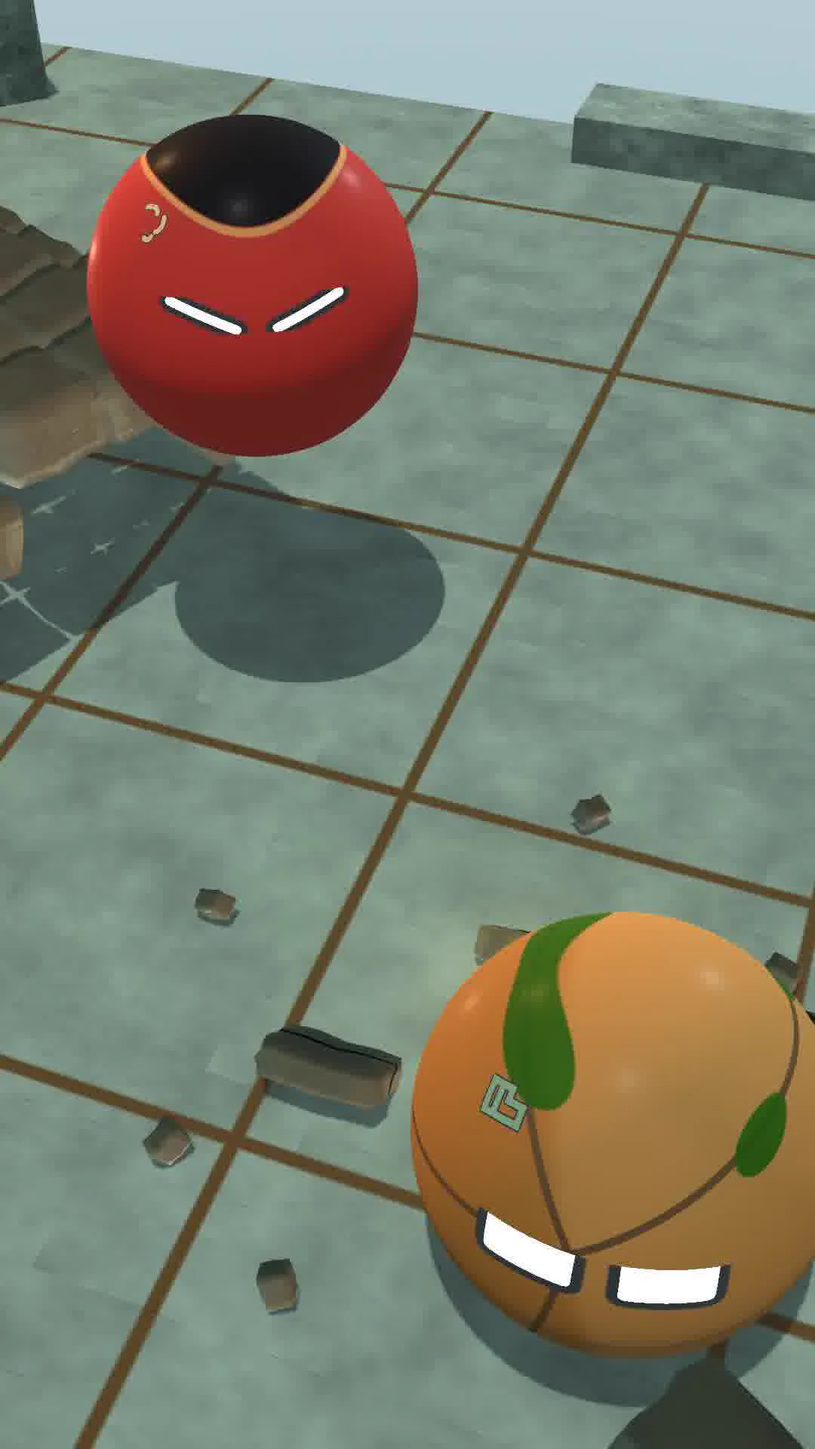
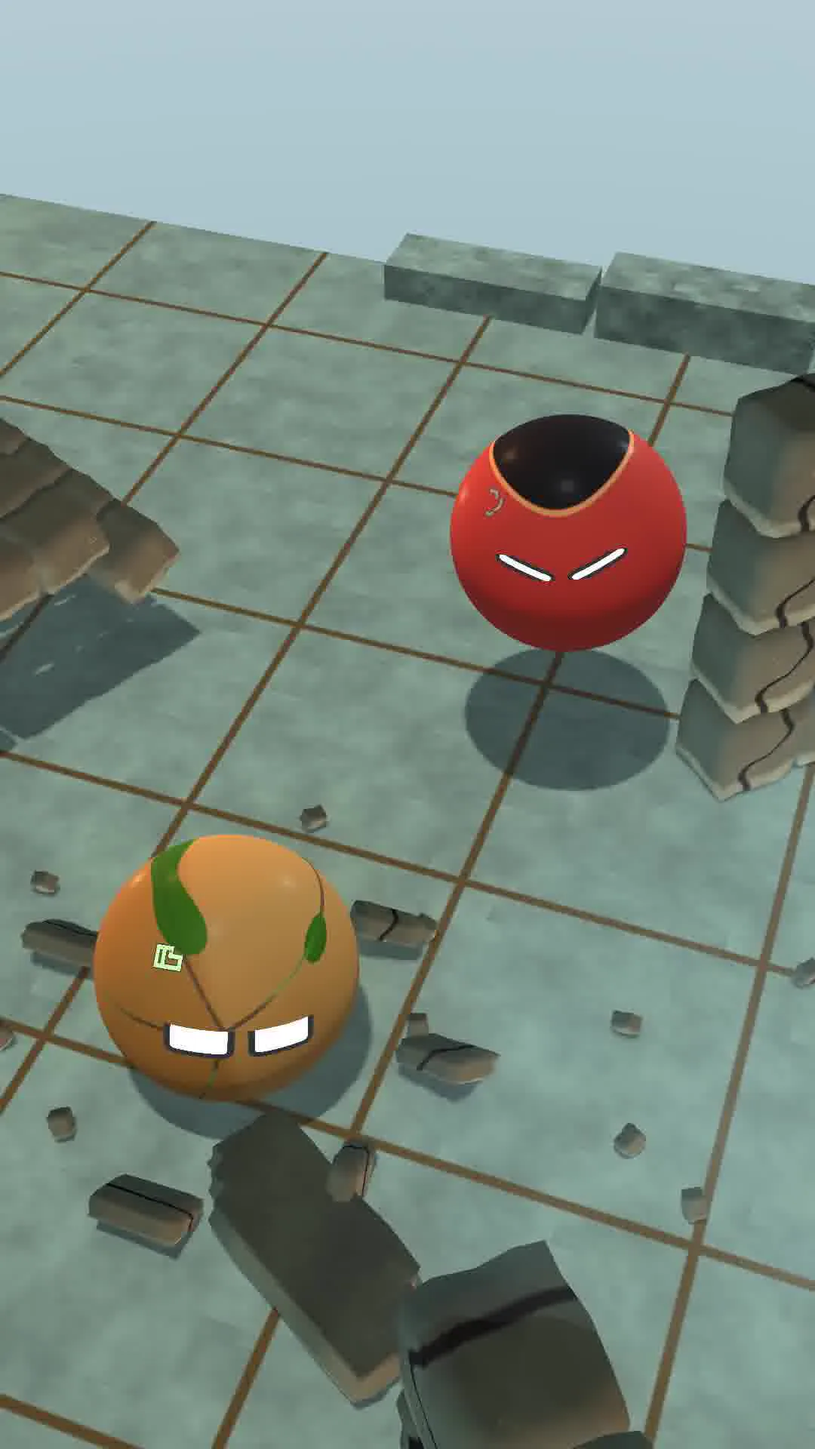
Update reference stills with wide landing view

diff --git a/index.html b/index.html
@@ -1,1 +1,1 @@
-<!doctype html><html lang="en"><head><meta charset="utf-8"><meta name="viewport" content="width=device-width,initial-scale=1"><meta name="description" content="Orb Fighters: building a living sandbox, one readable clash at a time."><meta name="color-scheme" content="light"><title>Development journal &middot; Orb Fighters</title><link rel="stylesheet" href="assets/style.css"></head><body><a class="skip" href="#main">Skip to content</a><header><a class="brand" href="index.html"><span class="brand-mark" aria-hidden="true">OF</span><span>ORB FIGHTERS<small>DEVELOPMENT JOURNAL</small></span></a><nav aria-label="Main navigation"><a href="index.html" aria-current="page">Home</a><a href="milestones.html">Milestones</a><a href="gallery.html">Gallery</a><a href="design.html">Design</a></nav></header><main id="main"><section class="hero"><div><p class="eyebrow">A WORLD IN THE MAKING</p><h1>Small beings.<br><span>Limitless possibility.</span></h1><p class="intro">Follow Orb Fighters as a living sandbox takes shape: expressive orbs, physical powers, and fights that leave a mark.</p><a class="button" href="milestones.html">Follow the milestones <span aria-hidden="true">&rarr;</span></a></div><div class="hero-media"><a class="hero-image-link" href="posts/2026-10-02-the-orbs-side-by-side.html" aria-label="Read the orb shell development update"><figure class="wip-still"><img src="assets/media/2026-10-02-the-orbs-side-by-side-still-2.webp?v=smooth-stone" alt="MAGNUS painting beside a smooth dark slate orb with a blue meridian and small minus and plus eyes" loading="eager" decoding="async"><figcaption><span class="wip-label">Work in progress</span> MAGNUS WIP: the dark slate shell and blue meridian remain distinct. The render is cleaner and cloudier than the painting, with a fairly uniform bright eye core.</figcaption></figure></a></div></section><section class="updates"><div class="section-title"><h2>Latest from the workshop</h2><span>NEWEST FIRST</span></div><div class="post-grid"><article class="post-card"><figure class="wip-still"><a href="assets/media/2026-10-02-twenty-seconds-in-the-duel-still-2.webp"><img src="assets/media/2026-10-02-twenty-seconds-in-the-duel-still-2.webp" alt="TERRA stands on a raised stone build as BLAZE plasma lights the nearby arena" width="960" height="540" loading="lazy" decoding="async"></a><figcaption><span class="wip-label">Work in progress</span> 2.40 s - A real stone build and BLAZE plasma are visible in the same gameplay view. This recorded-input run is not human GUI play or reference animation.</figcaption></figure><div class="post-meta"><time datetime="2026-10-02T17:05+09:00">02 Oct 2026, 17:05 KST</time><span class="badge">Work in progress</span></div><h2><a href="posts/2026-10-02-twenty-seconds-in-the-duel.html">Ordinary controls in the duel</a></h2><p>A twenty-second gameplay capture runs recorded mouse and key inputs through TERRA&#39;s ordinary controls against autonomous BLAZE. The inputs are replayed, rather than entered live by a person; this is separate from the choreographed reference fight. These are the current gameplay orbs, with the new shell study still unapplied.</p><a class="read-more" href="posts/2026-10-02-twenty-seconds-in-the-duel.html">Read the update &rarr;</a></article><article class="post-card"><figure class="wip-still"><a href="assets/media/2026-10-02-a-fight-you-can-follow-still-2.webp"><img src="assets/media/2026-10-02-a-fight-you-can-follow-still-2.webp" alt="Round BLAZE descends toward an unobstructed tiled floor with TERRA visible nearby" width="1080" height="1920" loading="lazy" decoding="async"></a><figcaption><span class="wip-label">Work in progress</span> 8.867 s - BLAZE stays round during descent, with the landing floor and TERRA visible.</figcaption></figure><div class="post-meta"><time datetime="2026-10-02T16:28+09:00">02 Oct 2026, 16:28 KST</time><span class="badge">Work in progress</span></div><h2><a href="posts/2026-10-02-a-fight-you-can-follow.html">Letting the landing read</a></h2><p>The reference fight now shows BLAZE&#39;s landing without foreground stone covering the contact. BLAZE remains round as it descends, then compresses after touching the floor. That makes the fall&#39;s weight easier to read.</p><a class="read-more" href="posts/2026-10-02-a-fight-you-can-follow.html">Read the update &rarr;</a></article><article class="post-card"><figure class="wip-still"><a href="assets/media/2026-10-02-the-orbs-side-by-side-still-1.webp?v=smooth-stone"><img src="assets/media/2026-10-02-the-orbs-side-by-side-still-1.webp?v=smooth-stone" alt="Eight selected shell paintings beside smooth stone and ceramic orb renders in a dark studio" loading="lazy" decoding="async"></a><figcaption><span class="wip-label">Work in progress</span> Updated WIP: smoother stone and ceramic shells, wider lit inlays and a darker studio. Original small glyphs and distinct colours remain; wear and eye-light depth still need work.</figcaption></figure><div class="post-meta"><time datetime="2026-10-02T16:05:00+09:00">02 Oct 2026, 16:05 KST</time><span class="badge">Work in progress</span></div><h2><a href="posts/2026-10-02-the-orbs-side-by-side.html">Original small glyphs, eight shell directions</a></h2><p>Eight orb shells now read more like smooth stone and ceramic. Wider lit inlays stand out in a darker studio, while the small original eye glyphs and distinct colours remain.</p><a class="read-more" href="posts/2026-10-02-the-orbs-side-by-side.html">Read the update &rarr;</a></article><article class="post-card"><figure class="wip-still"><img src="assets/media/2026-10-01-a-cleaner-reference-fight-still-1.webp" alt="BLAZE drives an orange blade toward TERRA amid sparks in the earlier reference pass" width="1080" height="1920" loading="lazy" decoding="async"><figcaption><span class="wip-label">Work in progress</span> Before: the contact is readable, but bright sparks and steam crowd its focal point. This is authored reference-animation WIP.</figcaption></figure><div class="post-meta"><time datetime="2026-10-01T11:07:00+09:00">01 Oct 2026, 11:07 KST</time><span class="badge">M1</span><span class="badge">In progress</span></div><h2><a href="posts/2026-10-01-a-cleaner-reference-fight.html">A cleaner reference fight</a></h2><p>We have withdrawn the short video from this reference-fight update because the action is too confusing. Frequent angle changes, crowded fighters and weak plasma shapes make the exchange hard to follow. These work-in-progress stills remain for comparison while we rebuild the sequence.</p><a class="read-more" href="posts/2026-10-01-a-cleaner-reference-fight.html">Read the update <span aria-hidden="true">&rarr;</span></a></article><article class="post-card"><figure class="wip-still"><img src="assets/media/2026-10-01-moves-tested-as-a-complete-chain-still-1.webp" alt="Warm earth-colored TERRA faces vivid red BLAZE at a staged contact" width="1080" height="1920" loading="lazy" decoding="async"><figcaption><span class="wip-label">Work in progress</span> Latest selected orb material WIP. Red body shading is clearer, but the blade remains hidden; the next reference render changes the contact staging.</figcaption></figure><div class="post-meta"><time datetime="2026-10-01T09:44:00+09:00">01 Oct 2026, 09:44 KST</time><span class="badge">M1</span><span class="badge">In progress</span></div><h2><a href="posts/2026-10-01-moves-tested-as-a-complete-chain.html">Testing moves as a complete chain</a></h2><p>A technique can now reach the native duel core as a complete ordered chain of moves. The core quotes the whole chain before accepting it, so a later step cannot quietly overspend Glow or reuse matter that an earlier step has already reserved. An invalid step leaves the world unchanged.</p><a class="read-more" href="posts/2026-10-01-moves-tested-as-a-complete-chain.html">Read the update <span aria-hidden="true">&rarr;</span></a></article><article class="post-card"><figure class="wip-still"><img src="assets/media/2026-10-01-kept-builds-survive-a-fresh-world-still-1.webp" alt="A surviving stone pillar stands after a scripted Keep action" width="1080" height="1920" loading="lazy" decoding="async"><figcaption><span class="wip-label">Work in progress</span> Later native capture of the paid kept build. Its surviving state is tested, but the pale box material is unfinished; detailed stone shading is next.</figcaption></figure><div class="post-meta"><time datetime="2026-10-01T09:01:00+09:00">01 Oct 2026, 09:01 KST</time><span class="badge">M1</span><span class="badge">In progress</span></div><h2><a href="posts/2026-10-01-kept-builds-survive-a-fresh-world.html">Kept builds survive a fresh world</a></h2><p>The latest scripted control test now keeps a real, surviving stone build. The player targets it, pays once, and a repeated Keep action spends nothing extra. Clean leaves that paid kept build intact without issuing a refund.</p><a class="read-more" href="posts/2026-10-01-kept-builds-survive-a-fresh-world.html">Read the update <span aria-hidden="true">&rarr;</span></a></article><article class="post-card"><figure class="wip-still"><img src="assets/media/2026-10-01-controls-reach-the-duel-still-1.webp" alt="TERRA shapes stone beside BLAZE during a native input test" width="1080" height="1920" loading="lazy" decoding="async"><figcaption><span class="wip-label">Work in progress</span> Later recorded follow-up to the scripted contacts. The native input path works, but the pale pillar reads poorly; surface materials are next.</figcaption></figure><div class="post-meta"><time datetime="2026-10-01T08:31:00+09:00">01 Oct 2026, 08:31 KST</time><span class="badge">M1</span><span class="badge">In progress</span></div><h2><a href="posts/2026-10-01-controls-reach-the-duel.html">The controls reach the duel</a></h2><p>The latest scripted control test produced three physical contacts and a broken guard between TERRA and BLAZE. Every authored movement and power-shape upload in that run was accepted. The controls and shared motion now connect to the native duel&#39;s consequences.</p><a class="read-more" href="posts/2026-10-01-controls-reach-the-duel.html">Read the update <span aria-hidden="true">&rarr;</span></a></article><article class="post-card"><figure class="wip-still"><img src="assets/media/2026-10-01-giving-moves-real-consequences-still-1.webp" alt="TERRA and BLAZE stand beside a newly formed stone pillar" width="1080" height="1920" loading="lazy" decoding="async"><figcaption><span class="wip-label">Work in progress</span> Later native control capture, not the backend fixture described above. Geometry and costs are native, but stone shading and the small viewport need work.</figcaption></figure><div class="post-meta"><time datetime="2026-10-01T07:39:00+09:00">01 Oct 2026, 07:39 KST</time><span class="badge">M1</span><span class="badge">In progress</span></div><h2><a href="posts/2026-10-01-giving-moves-real-consequences.html">Giving moves real consequences</a></h2><p>The new duel backend now runs inside Godot. It accepts authored movement and power shapes, checks the available Glow and existing matter, and resolves physical contacts. Animation supplies the movement; the core accounts for its consequences.</p><a class="read-more" href="posts/2026-10-01-giving-moves-real-consequences.html">Read the update <span aria-hidden="true">&rarr;</span></a></article><article class="post-card"><figure class="wip-still"><img src="assets/media/2026-10-01-the-journal-is-live-still-1.webp" alt="The development journal home page with dated progress posts" width="1280" height="2258" loading="lazy" decoding="async"><figcaption><span class="wip-label">Work in progress</span> Later journal screenshot. This earlier layout still had no post media; images and short WIP clips are being added now.</figcaption></figure><div class="post-meta"><time datetime="2026-10-01T06:55:00+09:00">01 Oct 2026, 06:55 KST</time><span class="badge">M1</span><span class="badge">In progress</span></div><h2><a href="posts/2026-10-01-the-journal-is-live.html">The development journal is live</a></h2><p>This journal is now online. It brings together the latest development posts, milestone status and a readable summary of the design, so the progress of Orb Fighters is easier to follow on a phone.</p><a class="read-more" href="posts/2026-10-01-the-journal-is-live.html">Read the update <span aria-hidden="true">&rarr;</span></a></article><article class="post-card"><figure class="wip-still"><img src="assets/media/2026-10-01-making-fields-visible-still-1.webp" alt="MAGNUS prepares magnetic power above scattered metal filings" width="720" height="1280" loading="lazy" decoding="async"><figcaption><span class="wip-label">Work in progress</span> Cosmetic component WIP: tangible filings show the field, but they disappear at phone size. Larger, clearer alignment changes are next.</figcaption></figure><div class="post-meta"><time datetime="2026-10-01T05:24:00+09:00">01 Oct 2026, 05:24 KST</time><span class="badge">M1</span><span class="badge">In progress</span></div><h2><a href="posts/2026-10-01-making-fields-visible.html">Making fields visible through matter</a></h2><p>The latest MAGNUS study shows magnetic power through metal filings and moving alloy fragments. The field becomes visible through what it moves, giving this fighter a different shape language from stone, plasma and electrical discharge.</p><a class="read-more" href="posts/2026-10-01-making-fields-visible.html">Read the update <span aria-hidden="true">&rarr;</span></a></article><article class="post-card"><figure class="wip-still"><img src="assets/media/2026-10-01-framing-the-moment-of-contact-still-1.webp" alt="TERRA faces the camera under a dense stone-dust effect" width="1080" height="1920" loading="lazy" decoding="async"><figcaption><span class="wip-label">Work in progress</span> Camera-revision WIP: the fighter is large, but dense dust and speed lines compete with its eyes. Cleaner contact shapes are next.</figcaption></figure><div class="post-meta"><time datetime="2026-10-01T04:45:00+09:00">01 Oct 2026, 04:45 KST</time><span class="badge">M1</span><span class="badge">In progress</span></div><h2><a href="posts/2026-10-01-framing-the-moment-of-contact.html">Framing the moment of contact</a></h2><p>The latest reference-fight camera brings more of the action into view. In the recorded revision, 466 of 600 frames meet the current fighter-size and framing target, up from 332. The target is 480, and all three major impacts now keep the fighter shells inside their safety margin.</p><a class="read-more" href="posts/2026-10-01-framing-the-moment-of-contact.html">Read the update <span aria-hidden="true">&rarr;</span></a></article><article class="post-card"><figure class="wip-still"><img src="assets/media/2026-10-01-making-the-workshop-readable-still-1.webp" alt="TERRA is shown in a dedicated dummy view above technique fields" width="1080" height="1920" loading="lazy" decoding="async"><figcaption><span class="wip-label">Work in progress</span> Later control-only follow-up: the dummy has its own view. Combat is unavailable; more space for the fight is still needed.</figcaption></figure><div class="post-meta"><time datetime="2026-10-01T04:03:00+09:00">01 Oct 2026, 04:03 KST</time><span class="badge">M4</span><span class="badge">Groundwork</span></div><h2><a href="posts/2026-10-01-making-the-workshop-readable.html">Making the workshop readable</a></h2><p>The technique workshop now gives its live dummy a separate view. Larger text and scrolling controls let you adjust a recipe without covering the orb&#39;s eyes. The control guide has its own space, so instructions stay clear of the demonstration.</p><a class="read-more" href="posts/2026-10-01-making-the-workshop-readable.html">Read the update <span aria-hidden="true">&rarr;</span></a></article><article class="post-card"><figure class="wip-still"><img src="assets/media/2026-10-01-testing-controls-before-the-duel-still-1.webp" alt="TERRA faces BLAZE while a gesture charge is shown" width="1080" height="1920" loading="lazy" decoding="async"><figcaption><span class="wip-label">Work in progress</span> Input prototype only: combat is unavailable in this version. The faint guide and cramped opening view need correction.</figcaption></figure><div class="post-meta"><time datetime="2026-10-01T03:15:00+09:00">01 Oct 2026, 03:15 KST</time><span class="badge">M4</span><span class="badge">Groundwork</span></div><h2><a href="posts/2026-10-01-testing-controls-before-the-duel.html">Testing the controls before the duel</a></h2><p>The first control prototype now runs inside Godot. A recorded input session exercises direction and charge, releasing a technique, quick reactions, lock-on, Clean and Keep requests, and the technique workshop. Thirteen checks passed for input handling and saved recipes.</p><a class="read-more" href="posts/2026-10-01-testing-controls-before-the-duel.html">Read the update <span aria-hidden="true">&rarr;</span></a></article><article class="post-card"><figure class="wip-still"><img src="assets/media/2026-10-01-craft-and-first-playable-still-1.webp" alt="TERRA braces below a cloud of stone dust" width="1080" height="1920" loading="lazy" decoding="async"><figcaption><span class="wip-label">Work in progress</span> Later reference-animation WIP: dust and stone crowd the contact image. Clearer effect staging and quieter scenery are next.</figcaption></figure><div class="post-meta"><time datetime="2026-10-01T02:44:00+09:00">01 Oct 2026, 02:44 KST</time><span class="badge">M1</span><span class="badge">In progress</span></div><h2><a href="posts/2026-10-01-craft-and-first-playable.html">A clearer fight, a brighter world</a></h2><p>Orb Fighters is building toward fluid, creative power fights in a world that remembers what happened. The first reference spar pairs BLAZE&#39;s plasma with TERRA&#39;s stone shaping. That short fight sets the quality target before the systems grow around it.</p><a class="read-more" href="posts/2026-10-01-craft-and-first-playable.html">Read the update <span aria-hidden="true">&rarr;</span></a></article></div></section></main><footer><strong>Orb Fighters</strong><span>Original worlds. Shared rules. Unexpected fights.</span><a href="design.html">Explore the design</a></footer></body></html>
+<!doctype html><html lang="en"><head><meta charset="utf-8"><meta name="viewport" content="width=device-width,initial-scale=1"><meta name="description" content="Orb Fighters: building a living sandbox, one readable clash at a time."><meta name="color-scheme" content="light"><title>Development journal &middot; Orb Fighters</title><link rel="stylesheet" href="assets/style.css"></head><body><a class="skip" href="#main">Skip to content</a><header><a class="brand" href="index.html"><span class="brand-mark" aria-hidden="true">OF</span><span>ORB FIGHTERS<small>DEVELOPMENT JOURNAL</small></span></a><nav aria-label="Main navigation"><a href="index.html" aria-current="page">Home</a><a href="milestones.html">Milestones</a><a href="gallery.html">Gallery</a><a href="design.html">Design</a></nav></header><main id="main"><section class="hero"><div><p class="eyebrow">A WORLD IN THE MAKING</p><h1>Small beings.<br><span>Limitless possibility.</span></h1><p class="intro">Follow Orb Fighters as a living sandbox takes shape: expressive orbs, physical powers, and fights that leave a mark.</p><a class="button" href="milestones.html">Follow the milestones <span aria-hidden="true">&rarr;</span></a></div><div class="hero-media"><a class="hero-image-link" href="posts/2026-10-02-the-orbs-side-by-side.html" aria-label="Read the orb shell development update"><figure class="wip-still"><img src="assets/media/2026-10-02-the-orbs-side-by-side-still-2.webp?v=smooth-stone" alt="MAGNUS painting beside a smooth dark slate orb with a blue meridian and small minus and plus eyes" loading="eager" decoding="async"><figcaption><span class="wip-label">Work in progress</span> MAGNUS WIP: the dark slate shell and blue meridian remain distinct. The render is cleaner and cloudier than the painting, with a fairly uniform bright eye core.</figcaption></figure></a></div></section><section class="updates"><div class="section-title"><h2>Latest from the workshop</h2><span>NEWEST FIRST</span></div><div class="post-grid"><article class="post-card"><figure class="wip-still"><a href="assets/media/2026-10-02-twenty-seconds-in-the-duel-still-2.webp"><img src="assets/media/2026-10-02-twenty-seconds-in-the-duel-still-2.webp" alt="TERRA stands on a raised stone build as BLAZE plasma lights the nearby arena" width="960" height="540" loading="lazy" decoding="async"></a><figcaption><span class="wip-label">Work in progress</span> 2.40 s - A real stone build and BLAZE plasma are visible in the same gameplay view. This recorded-input run is not human GUI play or reference animation.</figcaption></figure><div class="post-meta"><time datetime="2026-10-02T17:05+09:00">02 Oct 2026, 17:05 KST</time><span class="badge">Work in progress</span></div><h2><a href="posts/2026-10-02-twenty-seconds-in-the-duel.html">Ordinary controls in the duel</a></h2><p>A twenty-second gameplay capture runs recorded mouse and key inputs through TERRA&#39;s ordinary controls against autonomous BLAZE. The inputs are replayed, rather than entered live by a person; this is separate from the choreographed reference fight. These are the current gameplay orbs, with the new shell study still unapplied.</p><a class="read-more" href="posts/2026-10-02-twenty-seconds-in-the-duel.html">Read the update &rarr;</a></article><article class="post-card"><figure class="wip-still"><a href="assets/media/2026-10-02-a-fight-you-can-follow-still-2.webp?v=wide-pair"><img src="assets/media/2026-10-02-a-fight-you-can-follow-still-2.webp?v=wide-pair" alt="A wider fixed landing view shows both whole BLAZE and TERRA shells with the pillar beside them" width="1080" height="1920" loading="lazy" decoding="async"></a><figcaption><span class="wip-label">Work in progress</span> Approximately 8.23 s - The wider landing pair is established, with both whole shells visible and the pillar clear of them. An earlier camera transition still clips the frame edge.</figcaption></figure><div class="post-meta"><time datetime="2026-10-02T16:28+09:00">02 Oct 2026, 16:28 KST</time><span class="badge">Work in progress</span></div><h2><a href="posts/2026-10-02-a-fight-you-can-follow.html">Letting the landing read</a></h2><p>The reference fight now holds a wider, fixed view of BLAZE and TERRA through the landing. Both whole shells remain visible during the reviewed 8.25-9.25 second interval, and the pillar no longer covers them. The contact has room to read.</p><a class="read-more" href="posts/2026-10-02-a-fight-you-can-follow.html">Read the update &rarr;</a></article><article class="post-card"><figure class="wip-still"><a href="assets/media/2026-10-02-the-orbs-side-by-side-still-1.webp?v=smooth-stone"><img src="assets/media/2026-10-02-the-orbs-side-by-side-still-1.webp?v=smooth-stone" alt="Eight selected shell paintings beside smooth stone and ceramic orb renders in a dark studio" loading="lazy" decoding="async"></a><figcaption><span class="wip-label">Work in progress</span> Updated WIP: smoother stone and ceramic shells, wider lit inlays and a darker studio. Original small glyphs and distinct colours remain; wear and eye-light depth still need work.</figcaption></figure><div class="post-meta"><time datetime="2026-10-02T16:05:00+09:00">02 Oct 2026, 16:05 KST</time><span class="badge">Work in progress</span></div><h2><a href="posts/2026-10-02-the-orbs-side-by-side.html">Original small glyphs, eight shell directions</a></h2><p>Eight orb shells now read more like smooth stone and ceramic. Wider lit inlays stand out in a darker studio, while the small original eye glyphs and distinct colours remain.</p><a class="read-more" href="posts/2026-10-02-the-orbs-side-by-side.html">Read the update &rarr;</a></article><article class="post-card"><figure class="wip-still"><img src="assets/media/2026-10-01-a-cleaner-reference-fight-still-1.webp" alt="BLAZE drives an orange blade toward TERRA amid sparks in the earlier reference pass" width="1080" height="1920" loading="lazy" decoding="async"><figcaption><span class="wip-label">Work in progress</span> Before: the contact is readable, but bright sparks and steam crowd its focal point. This is authored reference-animation WIP.</figcaption></figure><div class="post-meta"><time datetime="2026-10-01T11:07:00+09:00">01 Oct 2026, 11:07 KST</time><span class="badge">M1</span><span class="badge">In progress</span></div><h2><a href="posts/2026-10-01-a-cleaner-reference-fight.html">A cleaner reference fight</a></h2><p>We have withdrawn the short video from this reference-fight update because the action is too confusing. Frequent angle changes, crowded fighters and weak plasma shapes make the exchange hard to follow. These work-in-progress stills remain for comparison while we rebuild the sequence.</p><a class="read-more" href="posts/2026-10-01-a-cleaner-reference-fight.html">Read the update <span aria-hidden="true">&rarr;</span></a></article><article class="post-card"><figure class="wip-still"><img src="assets/media/2026-10-01-moves-tested-as-a-complete-chain-still-1.webp" alt="Warm earth-colored TERRA faces vivid red BLAZE at a staged contact" width="1080" height="1920" loading="lazy" decoding="async"><figcaption><span class="wip-label">Work in progress</span> Latest selected orb material WIP. Red body shading is clearer, but the blade remains hidden; the next reference render changes the contact staging.</figcaption></figure><div class="post-meta"><time datetime="2026-10-01T09:44:00+09:00">01 Oct 2026, 09:44 KST</time><span class="badge">M1</span><span class="badge">In progress</span></div><h2><a href="posts/2026-10-01-moves-tested-as-a-complete-chain.html">Testing moves as a complete chain</a></h2><p>A technique can now reach the native duel core as a complete ordered chain of moves. The core quotes the whole chain before accepting it, so a later step cannot quietly overspend Glow or reuse matter that an earlier step has already reserved. An invalid step leaves the world unchanged.</p><a class="read-more" href="posts/2026-10-01-moves-tested-as-a-complete-chain.html">Read the update <span aria-hidden="true">&rarr;</span></a></article><article class="post-card"><figure class="wip-still"><img src="assets/media/2026-10-01-kept-builds-survive-a-fresh-world-still-1.webp" alt="A surviving stone pillar stands after a scripted Keep action" width="1080" height="1920" loading="lazy" decoding="async"><figcaption><span class="wip-label">Work in progress</span> Later native capture of the paid kept build. Its surviving state is tested, but the pale box material is unfinished; detailed stone shading is next.</figcaption></figure><div class="post-meta"><time datetime="2026-10-01T09:01:00+09:00">01 Oct 2026, 09:01 KST</time><span class="badge">M1</span><span class="badge">In progress</span></div><h2><a href="posts/2026-10-01-kept-builds-survive-a-fresh-world.html">Kept builds survive a fresh world</a></h2><p>The latest scripted control test now keeps a real, surviving stone build. The player targets it, pays once, and a repeated Keep action spends nothing extra. Clean leaves that paid kept build intact without issuing a refund.</p><a class="read-more" href="posts/2026-10-01-kept-builds-survive-a-fresh-world.html">Read the update <span aria-hidden="true">&rarr;</span></a></article><article class="post-card"><figure class="wip-still"><img src="assets/media/2026-10-01-controls-reach-the-duel-still-1.webp" alt="TERRA shapes stone beside BLAZE during a native input test" width="1080" height="1920" loading="lazy" decoding="async"><figcaption><span class="wip-label">Work in progress</span> Later recorded follow-up to the scripted contacts. The native input path works, but the pale pillar reads poorly; surface materials are next.</figcaption></figure><div class="post-meta"><time datetime="2026-10-01T08:31:00+09:00">01 Oct 2026, 08:31 KST</time><span class="badge">M1</span><span class="badge">In progress</span></div><h2><a href="posts/2026-10-01-controls-reach-the-duel.html">The controls reach the duel</a></h2><p>The latest scripted control test produced three physical contacts and a broken guard between TERRA and BLAZE. Every authored movement and power-shape upload in that run was accepted. The controls and shared motion now connect to the native duel&#39;s consequences.</p><a class="read-more" href="posts/2026-10-01-controls-reach-the-duel.html">Read the update <span aria-hidden="true">&rarr;</span></a></article><article class="post-card"><figure class="wip-still"><img src="assets/media/2026-10-01-giving-moves-real-consequences-still-1.webp" alt="TERRA and BLAZE stand beside a newly formed stone pillar" width="1080" height="1920" loading="lazy" decoding="async"><figcaption><span class="wip-label">Work in progress</span> Later native control capture, not the backend fixture described above. Geometry and costs are native, but stone shading and the small viewport need work.</figcaption></figure><div class="post-meta"><time datetime="2026-10-01T07:39:00+09:00">01 Oct 2026, 07:39 KST</time><span class="badge">M1</span><span class="badge">In progress</span></div><h2><a href="posts/2026-10-01-giving-moves-real-consequences.html">Giving moves real consequences</a></h2><p>The new duel backend now runs inside Godot. It accepts authored movement and power shapes, checks the available Glow and existing matter, and resolves physical contacts. Animation supplies the movement; the core accounts for its consequences.</p><a class="read-more" href="posts/2026-10-01-giving-moves-real-consequences.html">Read the update <span aria-hidden="true">&rarr;</span></a></article><article class="post-card"><figure class="wip-still"><img src="assets/media/2026-10-01-the-journal-is-live-still-1.webp" alt="The development journal home page with dated progress posts" width="1280" height="2258" loading="lazy" decoding="async"><figcaption><span class="wip-label">Work in progress</span> Later journal screenshot. This earlier layout still had no post media; images and short WIP clips are being added now.</figcaption></figure><div class="post-meta"><time datetime="2026-10-01T06:55:00+09:00">01 Oct 2026, 06:55 KST</time><span class="badge">M1</span><span class="badge">In progress</span></div><h2><a href="posts/2026-10-01-the-journal-is-live.html">The development journal is live</a></h2><p>This journal is now online. It brings together the latest development posts, milestone status and a readable summary of the design, so the progress of Orb Fighters is easier to follow on a phone.</p><a class="read-more" href="posts/2026-10-01-the-journal-is-live.html">Read the update <span aria-hidden="true">&rarr;</span></a></article><article class="post-card"><figure class="wip-still"><img src="assets/media/2026-10-01-making-fields-visible-still-1.webp" alt="MAGNUS prepares magnetic power above scattered metal filings" width="720" height="1280" loading="lazy" decoding="async"><figcaption><span class="wip-label">Work in progress</span> Cosmetic component WIP: tangible filings show the field, but they disappear at phone size. Larger, clearer alignment changes are next.</figcaption></figure><div class="post-meta"><time datetime="2026-10-01T05:24:00+09:00">01 Oct 2026, 05:24 KST</time><span class="badge">M1</span><span class="badge">In progress</span></div><h2><a href="posts/2026-10-01-making-fields-visible.html">Making fields visible through matter</a></h2><p>The latest MAGNUS study shows magnetic power through metal filings and moving alloy fragments. The field becomes visible through what it moves, giving this fighter a different shape language from stone, plasma and electrical discharge.</p><a class="read-more" href="posts/2026-10-01-making-fields-visible.html">Read the update <span aria-hidden="true">&rarr;</span></a></article><article class="post-card"><figure class="wip-still"><img src="assets/media/2026-10-01-framing-the-moment-of-contact-still-1.webp" alt="TERRA faces the camera under a dense stone-dust effect" width="1080" height="1920" loading="lazy" decoding="async"><figcaption><span class="wip-label">Work in progress</span> Camera-revision WIP: the fighter is large, but dense dust and speed lines compete with its eyes. Cleaner contact shapes are next.</figcaption></figure><div class="post-meta"><time datetime="2026-10-01T04:45:00+09:00">01 Oct 2026, 04:45 KST</time><span class="badge">M1</span><span class="badge">In progress</span></div><h2><a href="posts/2026-10-01-framing-the-moment-of-contact.html">Framing the moment of contact</a></h2><p>The latest reference-fight camera brings more of the action into view. In the recorded revision, 466 of 600 frames meet the current fighter-size and framing target, up from 332. The target is 480, and all three major impacts now keep the fighter shells inside their safety margin.</p><a class="read-more" href="posts/2026-10-01-framing-the-moment-of-contact.html">Read the update <span aria-hidden="true">&rarr;</span></a></article><article class="post-card"><figure class="wip-still"><img src="assets/media/2026-10-01-making-the-workshop-readable-still-1.webp" alt="TERRA is shown in a dedicated dummy view above technique fields" width="1080" height="1920" loading="lazy" decoding="async"><figcaption><span class="wip-label">Work in progress</span> Later control-only follow-up: the dummy has its own view. Combat is unavailable; more space for the fight is still needed.</figcaption></figure><div class="post-meta"><time datetime="2026-10-01T04:03:00+09:00">01 Oct 2026, 04:03 KST</time><span class="badge">M4</span><span class="badge">Groundwork</span></div><h2><a href="posts/2026-10-01-making-the-workshop-readable.html">Making the workshop readable</a></h2><p>The technique workshop now gives its live dummy a separate view. Larger text and scrolling controls let you adjust a recipe without covering the orb&#39;s eyes. The control guide has its own space, so instructions stay clear of the demonstration.</p><a class="read-more" href="posts/2026-10-01-making-the-workshop-readable.html">Read the update <span aria-hidden="true">&rarr;</span></a></article><article class="post-card"><figure class="wip-still"><img src="assets/media/2026-10-01-testing-controls-before-the-duel-still-1.webp" alt="TERRA faces BLAZE while a gesture charge is shown" width="1080" height="1920" loading="lazy" decoding="async"><figcaption><span class="wip-label">Work in progress</span> Input prototype only: combat is unavailable in this version. The faint guide and cramped opening view need correction.</figcaption></figure><div class="post-meta"><time datetime="2026-10-01T03:15:00+09:00">01 Oct 2026, 03:15 KST</time><span class="badge">M4</span><span class="badge">Groundwork</span></div><h2><a href="posts/2026-10-01-testing-controls-before-the-duel.html">Testing the controls before the duel</a></h2><p>The first control prototype now runs inside Godot. A recorded input session exercises direction and charge, releasing a technique, quick reactions, lock-on, Clean and Keep requests, and the technique workshop. Thirteen checks passed for input handling and saved recipes.</p><a class="read-more" href="posts/2026-10-01-testing-controls-before-the-duel.html">Read the update <span aria-hidden="true">&rarr;</span></a></article><article class="post-card"><figure class="wip-still"><img src="assets/media/2026-10-01-craft-and-first-playable-still-1.webp" alt="TERRA braces below a cloud of stone dust" width="1080" height="1920" loading="lazy" decoding="async"><figcaption><span class="wip-label">Work in progress</span> Later reference-animation WIP: dust and stone crowd the contact image. Clearer effect staging and quieter scenery are next.</figcaption></figure><div class="post-meta"><time datetime="2026-10-01T02:44:00+09:00">01 Oct 2026, 02:44 KST</time><span class="badge">M1</span><span class="badge">In progress</span></div><h2><a href="posts/2026-10-01-craft-and-first-playable.html">A clearer fight, a brighter world</a></h2><p>Orb Fighters is building toward fluid, creative power fights in a world that remembers what happened. The first reference spar pairs BLAZE&#39;s plasma with TERRA&#39;s stone shaping. That short fight sets the quality target before the systems grow around it.</p><a class="read-more" href="posts/2026-10-01-craft-and-first-playable.html">Read the update <span aria-hidden="true">&rarr;</span></a></article></div></section></main><footer><strong>Orb Fighters</strong><span>Original worlds. Shared rules. Unexpected fights.</span><a href="design.html">Explore the design</a></footer></body></html>

diff --git a/posts/2026-10-02-a-fight-you-can-follow.html b/posts/2026-10-02-a-fight-you-can-follow.html
@@ -1,1 +1,1 @@
-<!doctype html><html lang="en"><head><meta charset="utf-8"><meta name="viewport" content="width=device-width,initial-scale=1"><meta name="description" content="Orb Fighters: building a living sandbox, one readable clash at a time."><meta name="color-scheme" content="light"><title>Letting the landing read &middot; Orb Fighters</title><link rel="stylesheet" href="../assets/style.css"></head><body><a class="skip" href="#main">Skip to content</a><header><a class="brand" href="../index.html"><span class="brand-mark" aria-hidden="true">OF</span><span>ORB FIGHTERS<small>DEVELOPMENT JOURNAL</small></span></a><nav aria-label="Main navigation"><a href="../index.html" aria-current="page">Home</a><a href="../milestones.html">Milestones</a><a href="../gallery.html">Gallery</a><a href="../design.html">Design</a></nav></header><main id="main"><article class="article"><a class="back" href="../index.html">&larr; All updates</a><div class="post-meta"><time datetime="2026-10-02T16:28+09:00">02 Oct 2026, 16:28 KST</time><span class="badge">Work in progress</span></div><h1>Letting the landing read</h1><p>The reference fight now shows BLAZE&#39;s landing without foreground stone covering the contact. BLAZE remains round as it descends, then compresses after touching the floor. That makes the fall&#39;s weight easier to read.</p><p>This authored BLAZE-TERRA exchange uses the current reference-film orb appearances. These stills show both fighters during the aerial fire beat, the approach to the floor and the compression after contact.</p><p>The moving sequence still has abrupt camera changes and stretches of hanging in the air. The next pass steadies the camera and shortens those pauses so the landing connects naturally to the rest of the exchange.</p><section class="post-visuals"><h2>From air to contact</h2><figure class="wip-still"><a href="../assets/media/2026-10-02-a-fight-you-can-follow-still-1.webp"><img src="../assets/media/2026-10-02-a-fight-you-can-follow-still-1.webp" alt="Red BLAZE above warm TERRA during an aerial fire beat beside stone defenses" width="1080" height="1920" loading="lazy" decoding="async"></a><figcaption><span class="wip-label">Work in progress</span> 2.133 s - Both fighters during the aerial fire beat. Authored reference WIP using the current film orbs.</figcaption></figure><figure class="wip-still"><a href="../assets/media/2026-10-02-a-fight-you-can-follow-still-2.webp"><img src="../assets/media/2026-10-02-a-fight-you-can-follow-still-2.webp" alt="Round BLAZE descends toward an unobstructed tiled floor with TERRA visible nearby" width="1080" height="1920" loading="lazy" decoding="async"></a><figcaption><span class="wip-label">Work in progress</span> 8.867 s - BLAZE stays round during descent, with the landing floor and TERRA visible.</figcaption></figure><figure class="wip-still"><a href="../assets/media/2026-10-02-a-fight-you-can-follow-still-3.webp"><img src="../assets/media/2026-10-02-a-fight-you-can-follow-still-3.webp" alt="BLAZE compresses against the tiled floor after landing while TERRA remains in view" width="1080" height="1920" loading="lazy" decoding="async"></a><figcaption><span class="wip-label">Work in progress</span> 9.067 s - Compression follows floor contact. The complete moving sequence still needs steadier camera work and less air hanging.</figcaption></figure></section></article></main><footer><strong>Orb Fighters</strong><span>Original worlds. Shared rules. Unexpected fights.</span><a href="../design.html">Explore the design</a></footer></body></html>
+<!doctype html><html lang="en"><head><meta charset="utf-8"><meta name="viewport" content="width=device-width,initial-scale=1"><meta name="description" content="Orb Fighters: building a living sandbox, one readable clash at a time."><meta name="color-scheme" content="light"><title>Letting the landing read &middot; Orb Fighters</title><link rel="stylesheet" href="../assets/style.css"></head><body><a class="skip" href="#main">Skip to content</a><header><a class="brand" href="../index.html"><span class="brand-mark" aria-hidden="true">OF</span><span>ORB FIGHTERS<small>DEVELOPMENT JOURNAL</small></span></a><nav aria-label="Main navigation"><a href="../index.html" aria-current="page">Home</a><a href="../milestones.html">Milestones</a><a href="../gallery.html">Gallery</a><a href="../design.html">Design</a></nav></header><main id="main"><article class="article"><a class="back" href="../index.html">&larr; All updates</a><div class="post-meta"><time datetime="2026-10-02T16:28+09:00">02 Oct 2026, 16:28 KST</time><span class="badge">Work in progress</span></div><h1>Letting the landing read</h1><p>The reference fight now holds a wider, fixed view of BLAZE and TERRA through the landing. Both whole shells remain visible during the reviewed 8.25-9.25 second interval, and the pillar no longer covers them. The contact has room to read.</p><p>BLAZE stays round during descent, then compresses on floor contact before recovering. This authored exchange retains the original, current reference-film orbs. The stills show the aerial fire beat, the established landing pair and the grounded compression.</p><p>An earlier camera transition around 8.0 seconds still clips the frame edge. Aerial hovering, small power spectacle, weak material and light hierarchy, and small late eye acting also remain. The full film stays private while these issues are improved; the wider landing view is a local gain.</p><section class="post-visuals"><h2>A wider view of the landing pair</h2><figure class="wip-still"><a href="../assets/media/2026-10-02-a-fight-you-can-follow-still-1.webp?v=wide-pair"><img src="../assets/media/2026-10-02-a-fight-you-can-follow-still-1.webp?v=wide-pair" alt="BLAZE above TERRA during the aerial fire beat using the current reference-film orb appearances" width="1080" height="1920" loading="lazy" decoding="async"></a><figcaption><span class="wip-label">Work in progress</span> Approximately 2.13 s - The aerial fire beat retains the current reference-film orbs. Hovering and small power spectacle remain unfinished.</figcaption></figure><figure class="wip-still"><a href="../assets/media/2026-10-02-a-fight-you-can-follow-still-2.webp?v=wide-pair"><img src="../assets/media/2026-10-02-a-fight-you-can-follow-still-2.webp?v=wide-pair" alt="A wider fixed landing view shows both whole BLAZE and TERRA shells with the pillar beside them" width="1080" height="1920" loading="lazy" decoding="async"></a><figcaption><span class="wip-label">Work in progress</span> Approximately 8.23 s - The wider landing pair is established, with both whole shells visible and the pillar clear of them. An earlier camera transition still clips the frame edge.</figcaption></figure><figure class="wip-still"><a href="../assets/media/2026-10-02-a-fight-you-can-follow-still-3.webp?v=wide-pair"><img src="../assets/media/2026-10-02-a-fight-you-can-follow-still-3.webp?v=wide-pair" alt="BLAZE compresses on the floor beside fully visible TERRA in the wider landing view" width="1080" height="1920" loading="lazy" decoding="async"></a><figcaption><span class="wip-label">Work in progress</span> Approximately 9.07 s - Grounded compression follows contact while both whole shells stay visible. Late eye acting is small; the full film remains private.</figcaption></figure></section></article></main><footer><strong>Orb Fighters</strong><span>Original worlds. Shared rules. Unexpected fights.</span><a href="../design.html">Explore the design</a></footer></body></html>
